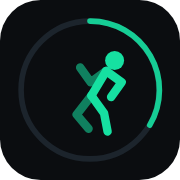
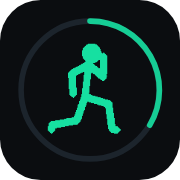
fix: 火柴人消除上下跳动 + 加跑道线 + 图标换成同一形象（v1.4.3）
1) 上下跳动：9 帧头顶点在原图里相差 20px（0~20），直接播看着像在蹦。
   逐帧加 translateY 补偿，统一对齐到最靠下的头位。只往下移不往上 ——
   往上会把头顶怼进气泡。补偿值按显示缩放比换算后写进内联样式。

2) 脚底跑道：一条两端淡出的地面线，脚踩在线上，
   人就是「在路上跑」而不是「悬在空中」。附带一条更淡的远线做纵深。

3) 图标：不再用手画的 SVG 路径，直接用第 3 帧抠图（腿张最开、有动感），
   放大到占画布 320/512 居中放进跑道环。主色和深底保持不变。

顺带修：bash 把模板字符串里的 `${DY[i-1]}` 当数组下标吃掉了，
生成的代码变成 style="--dy:/px"，用编辑工具直接改回来。

Changed region(s): [[0.25, 0.2222, 0.7222, 0.7778]]

diff --git a/css/app.css b/css/app.css
@@ -202,22 +202,44 @@ main {
 .runner-frames {
   position: absolute;
   right: 14px;
-  bottom: 6px;
-  width: 82px;
+  bottom: 4px;
+  width: 74px;
   height: 105px;
   filter: drop-shadow(0 0 9px rgba(22, 224, 161, 0.3));
 }
 .runner-frames .rf {
   position: absolute;
-  inset: 0;
+  left: 0;
+  top: 0;
   width: 100%;
-  height: 100%;
+  height: 92px;
   object-fit: contain;
-  object-position: center bottom;
+  object-position: center top;
   opacity: 0;
-  image-rendering: auto;
+  transform: translateY(var(--dy, 0));
 }
 .runner-frames .rf.on { opacity: 1; }
+
+/* 跑道：一条两端淡出的地面线。脚踩在它上面，
+   人就在路上跑而不是在半空浮着。 */
+.runner-track {
+  position: absolute;
+  left: 26%;
+  right: -6px;
+  top: 151px;
+  height: 1.5px;
+  background: linear-gradient(90deg, rgba(22,224,161,0) 0%, rgba(22,224,161,0.55) 38%, rgba(22,224,161,0.55) 100%);
+  border-radius: 1px;
+}
+.runner-track::after {
+  content: '';
+  position: absolute;
+  left: 14%;
+  right: 0;
+  top: 5px;
+  height: 1px;
+  background: linear-gradient(90deg, rgba(22,224,161,0) 0%, rgba(22,224,161,0.18) 60%, rgba(22,224,161,0.18) 100%);
+}
 
 .mood-layer {
   position: absolute;

diff --git a/js/app.js b/js/app.js
@@ -167,14 +167,18 @@ function runnerFigure() {
 
   const sub = `近 7 天 · ${rh.count} 次${rh.estimated ? '（估算）' : ''}`;
 
+  // 逐帧垂直补偿：9 帧头顶点在原图里相差 20px，直接播会上下乱跳。
+  // 统一对齐到「最靠下的那个头位」，并且只往下移不往上 —— 往上会把头顶怼进气泡里。
+  const DY = [0.0, 2.4, 2.4, 7.9, 9.7, 9.7, 9.7, 12.2, 12.2];
   let frames = '';
   for (let i = 1; i <= 9; i++) {
-    frames += `<img class="rf${i === 1 ? ' on' : ''}" src="assets/runner/f${i}.png" alt="" draggable="false">`;
+    frames += `<img class="rf${i === 1 ? ' on' : ''}" style="--dy:${DY[i - 1]}px" src="assets/runner/f${i}.png" alt="" draggable="false">`;
   }
 
   return `
   <div class="runner-art">
     <div class="runner-frames">${frames}</div>
+    <div class="runner-track"></div>
     <svg class="mood-layer" viewBox="0 0 150 134" aria-hidden="true">
       <g class="mood-bubble" data-act="mood:info">
         <rect x="8" y="2" width="134" height="38" rx="10"
